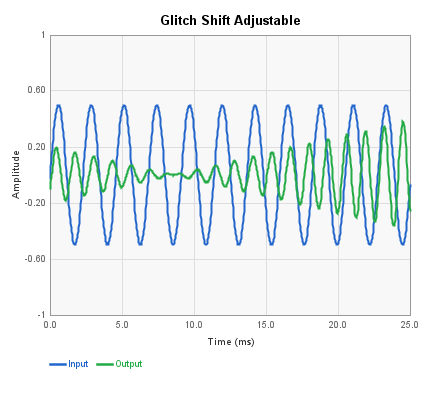
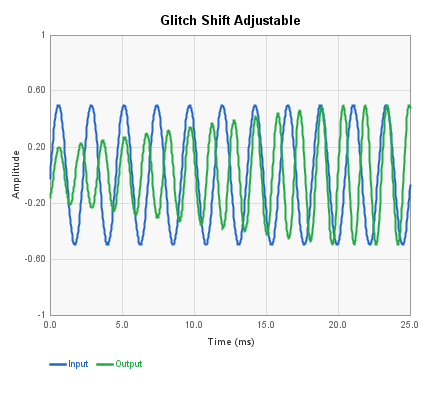
Fix broken negative pitch shift formula, add parameterized frequency tests
The @semitonesToRmpRate generator used a wrong scale factor (-32 vs 16384)
for negative semitones, producing rates 256x too slow. Replaced with a
unified formula: 16384*(2^(N/12)-1)/32768 that works for both directions.
Changed PitchShiftFixed default buffer from 512 to 4096 to match Adjustable
blocks — shorter buffers cause crossfade artifacts that degrade pitch accuracy.
Expanded PitchShiftFrequencyTest to parameterized tests at -12, -7, +7, +12,
+19 semitones across all three pitch shift blocks.

Changed region(s): [[0.0907, 0.24, 0.9674, 0.63]]

diff --git a/src/test/java/com/holycityaudio/SpinCAD/PitchShiftFrequencyTest.java b/src/test/java/com/holycityaudio/SpinCAD/PitchShiftFrequencyTest.java
@@ -5,18 +5,25 @@ import static org.junit.jupiter.api.Assertions.*;
 
 import java.io.*;
 import java.util.*;
+import java.util.stream.Stream;
 
 import org.junit.jupiter.api.BeforeAll;
 import org.junit.jupiter.api.Test;
 import org.junit.jupiter.api.io.TempDir;
+import org.junit.jupiter.params.ParameterizedTest;
+import org.junit.jupiter.params.provider.Arguments;
+import org.junit.jupiter.params.provider.MethodSource;
 
 import com.holycityaudio.SpinCAD.CADBlocks.*;
 
 /**
  * Verifies pitch shift blocks produce the expected frequency shift.
- * Feeds a 1 kHz sine wave and checks that:
- *   - Octave up  (+12 semitones) → dominant output near 2 kHz
- *   - Octave down (-12 semitones) → dominant output near 500 Hz
+ * Feeds a 1 kHz sine wave and checks that the dominant output frequency
+ * matches 1000 * 2^(semitones/12) for each setting.
+ *
+ * Tests cover the full slider range (-12 to +19) at key intervals:
+ *   -12 (octave down), -7 (fifth down), +7 (fifth up),
+ *   +12 (octave up), +19 (octave + fifth up)
  *
  * Uses Goertzel single-frequency DFT to measure energy at candidate
  * frequencies in the steady-state portion of the output.
@@ -34,69 +41,68 @@ public class PitchShiftFrequencyTest {
     /** Tolerance: measured peak frequency must be within this ratio of expected. */
     private static final double FREQ_TOLERANCE = 0.15;
 
+    /** Semitone values to test: extremes and interior intervals. */
+    static int[] TEST_SEMITONES = { -12, -7, 7, 12, 19 };
+
     @BeforeAll
     static void setup() {
         System.setProperty("java.awt.headless", "true");
     }
 
-    // ===================== Pitch Shift Fixed =====================
-
-    @Test
-    void pitchShiftFixed_octaveUp() throws Exception {
-        PitchShiftFixedCADBlock block = new PitchShiftFixedCADBlock(100, 100);
-        block.setFreq(12);   // +12 semitones = octave up
-        block.setCents(0);
-        assertDominantFrequency(block, "Pitch Out", 2000.0,
-                "PitchShiftFixed octave up");
+    /** Expected output frequency for a given semitone shift of a 1 kHz input. */
+    static double expectedFreq(int semitones) {
+        return INPUT_FREQ * Math.pow(2.0, semitones / 12.0);
     }
 
-    @Test
-    void pitchShiftFixed_octaveDown() throws Exception {
+    // ===================== Pitch Shift Fixed =====================
+
+    static Stream<Arguments> pitchShiftFixedArgs() {
+        return Arrays.stream(TEST_SEMITONES)
+                .mapToObj(s -> Arguments.of(s, expectedFreq(s)));
+    }
+
+    @ParameterizedTest(name = "PitchShiftFixed {0} semi -> {1} Hz")
+    @MethodSource("pitchShiftFixedArgs")
+    void pitchShiftFixed(int semitones, double expected) throws Exception {
         PitchShiftFixedCADBlock block = new PitchShiftFixedCADBlock(100, 100);
-        block.setFreq(-12);  // -12 semitones = octave down
+        block.setFreq(semitones);
         block.setCents(0);
-        assertDominantFrequency(block, "Pitch Out", 500.0,
-                "PitchShiftFixed octave down");
+        assertDominantFrequency(block, "Pitch Out", expected,
+                "PitchShiftFixed " + semitones + " semi");
     }
 
     // ===================== Pitch Shift Adjustable =====================
 
-    @Test
-    void pitchShiftAdj_octaveUp() throws Exception {
-        Pitch_shift_testCADBlock block = new Pitch_shift_testCADBlock(100, 100);
-        block.setpitchSemitones(12);
-        block.setpitchCents(0);
-        assertDominantFrequency(block, "Pitch Out", 2000.0,
-                "PitchShiftAdj octave up");
+    static Stream<Arguments> pitchShiftAdjArgs() {
+        return Arrays.stream(TEST_SEMITONES)
+                .mapToObj(s -> Arguments.of(s, expectedFreq(s)));
     }
 
-    @Test
-    void pitchShiftAdj_octaveDown() throws Exception {
+    @ParameterizedTest(name = "PitchShiftAdj {0} semi -> {1} Hz")
+    @MethodSource("pitchShiftAdjArgs")
+    void pitchShiftAdj(int semitones, double expected) throws Exception {
         Pitch_shift_testCADBlock block = new Pitch_shift_testCADBlock(100, 100);
-        block.setpitchSemitones(-12);
+        block.setpitchSemitones(semitones);
         block.setpitchCents(0);
-        assertDominantFrequency(block, "Pitch Out", 500.0,
-                "PitchShiftAdj octave down");
+        assertDominantFrequency(block, "Pitch Out", expected,
+                "PitchShiftAdj " + semitones + " semi");
     }
 
     // ===================== Glitch Shift =====================
 
-    @Test
-    void glitchShift_octaveUp() throws Exception {
-        Glitch_shiftCADBlock block = new Glitch_shiftCADBlock(100, 100);
-        block.setpitchSemitones(12);
-        block.setpitchCents(0);
-        assertDominantFrequency(block, "Glitch Out", 2000.0,
-                "GlitchShift octave up");
+    static Stream<Arguments> glitchShiftArgs() {
+        return Arrays.stream(TEST_SEMITONES)
+                .mapToObj(s -> Arguments.of(s, expectedFreq(s)));
     }
 
-    @Test
-    void glitchShift_octaveDown() throws Exception {
+    @ParameterizedTest(name = "GlitchShift {0} semi -> {1} Hz")
+    @MethodSource("glitchShiftArgs")
+    void glitchShift(int semitones, double expected) throws Exception {
         Glitch_shiftCADBlock block = new Glitch_shiftCADBlock(100, 100);
-        block.setpitchSemitones(-12);
+        block.setpitchSemitones(semitones);
         block.setpitchCents(0);
-        assertDominantFrequency(block, "Glitch Out", 500.0,
-                "GlitchShift octave down");
+        assertDominantFrequency(block, "Glitch Out", expected,
+                "GlitchShift " + semitones + " semi");
     }
 
     // ===================== Helper methods =====================

diff --git a/src-gen/com/holycityaudio/SpinCAD/CADBlocks/pitch_fourCADBlock.java b/src-gen/com/holycityaudio/SpinCAD/CADBlocks/pitch_fourCADBlock.java
@@ -122,47 +122,19 @@
 			sfxb.skip(ZRO, 8);
 			sfxb.scaleOffset(1.0, -0.25);
 			sfxb.skip(ZRO, 3);
-			double shift4 = 0.0;
-			if(total4 > 0) {
-				shift4 = (16384.0 * Math.pow(2.0, (total4/12.0) - 1))/32768.0;
-			}
-			else
-			{
-				shift4 = (-32.0 * Math.pow(2.0, (-total4/12.0) - 1))/32768.0;
-			}
+			double shift4 = (16384.0 * (Math.pow(2.0, total4/12.0) - 1))/32768.0;
 			sfxb.scaleOffset(0.0, shift4);
 			sfxb.writeRegister(RMP0_RATE, 0);
 			sfxb.skip(RUN, 8);
-			double shift1 = 0.0;
-			if(total3 > 0) {
-				shift1 = (16384.0 * Math.pow(2.0, (total3/12.0) - 1))/32768.0;
-			}
-			else
-			{
-				shift1 = (-32.0 * Math.pow(2.0, (-total3/12.0) - 1))/32768.0;
-			}
+			double shift1 = (16384.0 * (Math.pow(2.0, total3/12.0) - 1))/32768.0;
 			sfxb.scaleOffset(0.0, shift1);
 			sfxb.writeRegister(RMP0_RATE, 0);
 			sfxb.skip(RUN, 5);
-			double shift2 = 0.0;
-			if(total2 > 0) {
-				shift2 = (16384.0 * Math.pow(2.0, (total2/12.0) - 1))/32768.0;
-			}
-			else
-			{
-				shift2 = (-32.0 * Math.pow(2.0, (-total2/12.0) - 1))/32768.0;
-			}
+			double shift2 = (16384.0 * (Math.pow(2.0, total2/12.0) - 1))/32768.0;
 			sfxb.scaleOffset(0.0, shift2);
 			sfxb.writeRegister(RMP0_RATE, 0);
 			sfxb.skip(RUN, 2);
-			double shift3 = 0.0;
-			if(total1 > 0) {
-				shift3 = (16384.0 * Math.pow(2.0, (total1/12.0) - 1))/32768.0;
-			}
-			else
-			{
-				shift3 = (-32.0 * Math.pow(2.0, (-total1/12.0) - 1))/32768.0;
-			}
+			double shift3 = (16384.0 * (Math.pow(2.0, total1/12.0) - 1))/32768.0;
 			sfxb.scaleOffset(0.0, shift3);
 			sfxb.writeRegister(RMP0_RATE, 0);
 			sfxb.loadAccumulator(input);
@@ -180,47 +152,19 @@
 			sfxb.skip(ZRO, 8);
 			sfxb.scaleOffset(1.0, -0.25);
 			sfxb.skip(ZRO, 3);
-			double shift4 = 0.0;
-			if(total4 > 0) {
-				shift4 = (16384.0 * Math.pow(2.0, (total4/12.0) - 1))/32768.0;
-			}
-			else
-			{
-				shift4 = (-32.0 * Math.pow(2.0, (-total4/12.0) - 1))/32768.0;
-			}
+			double shift4 = (16384.0 * (Math.pow(2.0, total4/12.0) - 1))/32768.0;
 			sfxb.scaleOffset(0.0, shift4);
 			sfxb.writeRegister(RMP1_RATE, 0);
 			sfxb.skip(RUN, 8);
-			double shift1 = 0.0;
-			if(total3 > 0) {
-				shift1 = (16384.0 * Math.pow(2.0, (total3/12.0) - 1))/32768.0;
-			}
-			else
-			{
-				shift1 = (-32.0 * Math.pow(2.0, (-total3/12.0) - 1))/32768.0;
-			}
+			double shift1 = (16384.0 * (Math.pow(2.0, total3/12.0) - 1))/32768.0;
 			sfxb.scaleOffset(0.0, shift1);
 			sfxb.writeRegister(RMP1_RATE, 0);
 			sfxb.skip(RUN, 5);
-			double shift2 = 0.0;
-			if(total2 > 0) {
-				shift2 = (16384.0 * Math.pow(2.0, (total2/12.0) - 1))/32768.0;
-			}
-			else
-			{
-				shift2 = (-32.0 * Math.pow(2.0, (-total2/12.0) - 1))/32768.0;
-			}
+			double shift2 = (16384.0 * (Math.pow(2.0, total2/12.0) - 1))/32768.0;
 			sfxb.scaleOffset(0.0, shift2);
 			sfxb.writeRegister(RMP1_RATE, 0);
 			sfxb.skip(RUN, 2);
-			double shift3 = 0.0;
-			if(total1 > 0) {
-				shift3 = (16384.0 * Math.pow(2.0, (total1/12.0) - 1))/32768.0;
-			}
-			else
-			{
-				shift3 = (-32.0 * Math.pow(2.0, (-total1/12.0) - 1))/32768.0;
-			}
+			double shift3 = (16384.0 * (Math.pow(2.0, total1/12.0) - 1))/32768.0;
 			sfxb.scaleOffset(0.0, shift3);
 			sfxb.writeRegister(RMP1_RATE, 0);
 			sfxb.loadAccumulator(input);

diff --git a/src/com/holycityaudio/SpinCAD/CADBlocks/PitchShiftFixedCADBlock.java b/src/com/holycityaudio/SpinCAD/CADBlocks/PitchShiftFixedCADBlock.java
@@ -38,7 +38,7 @@ public class PitchShiftFixedCADBlock extends SpinCADBlock {
 	private static final long serialVersionUID = 3476502380095165941L;
 	private int freq = 0;
 	private int cents = 0;
-	private int amp = 512;
+	private int amp = 4096;
 	private int lfoSel = 0;
 	/**
 	 * 
